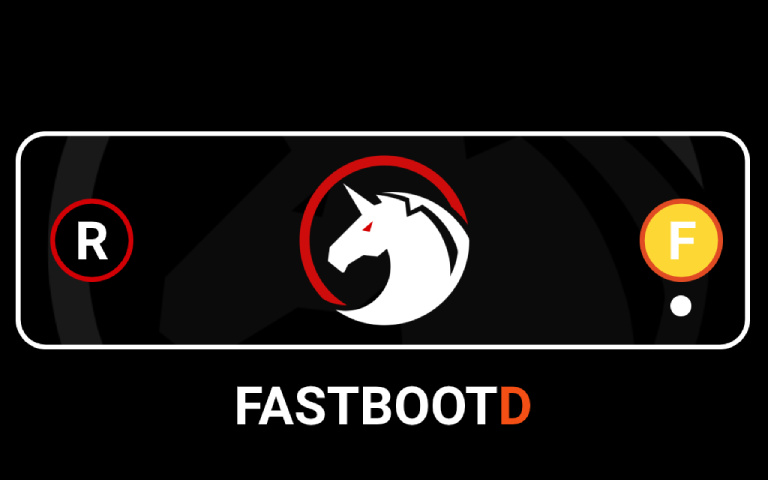
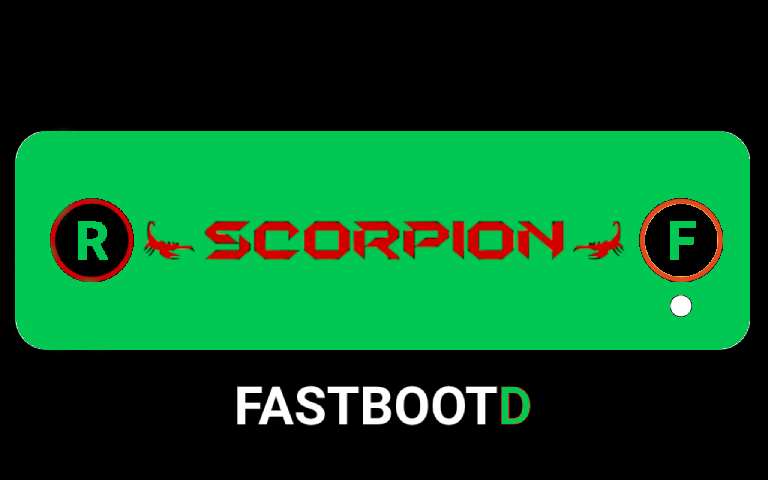
Update with Scorpion images & colors
- Is same thing as jbats said, there's really nothing wrong with the current images, we just need to do our own thing...

diff --git a/recovery_ui/screen_ui.cpp b/recovery_ui/screen_ui.cpp
@@ -565,23 +565,23 @@ void ScreenRecoveryUI::SetColor(UIElement e) const {
   switch (e) {
     case UIElement::INFO:
       if (fastbootd_logo_enabled_)
-        gr_color(0xfd, 0xd8, 0x35, 255);
+        gr_color(0x0, 0xFA, 0x9A, 255);
       else
-        gr_color(0xff, 0xff, 0xff, 255);
+        gr_color(0x0, 0xFA, 0x9A, 255);
       break;
     case UIElement::HEADER:
       if (fastbootd_logo_enabled_)
-        gr_color(0xfd, 0xd8,0x35, 255);
+        gr_color(0x0, 0xFA, 0x9A, 255);
       else
-        gr_color(0xff, 0x00, 0x00, 255);
+        gr_color(0x0, 0xFA, 0x9A, 255);
       break;
     case UIElement::MENU:
     case UIElement::MENU_SEL_BG:
     case UIElement::SCROLLBAR:
       if (fastbootd_logo_enabled_)
-        gr_color(0xe6, 0x51, 0x00, 255);
+        gr_color(0x0, 0xFA, 0x9A, 255);
       else
-        gr_color(0xff, 0x00, 0x00, 255);
+        gr_color(0x0, 0xFA, 0x9A, 255);
       break;
     case UIElement::MENU_SEL_BG_ACTIVE:
       gr_color(0, 255, 0, 0);
